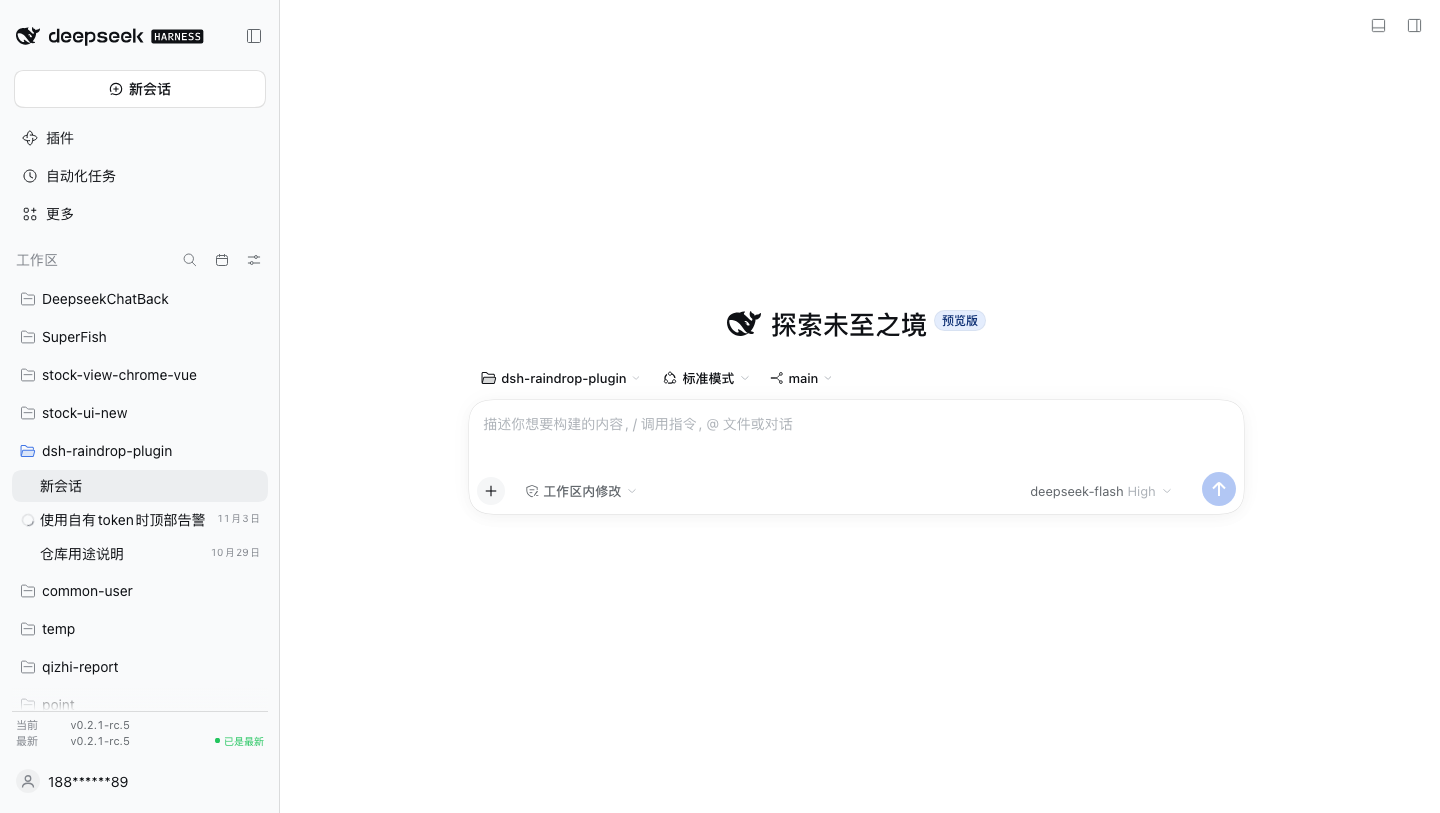
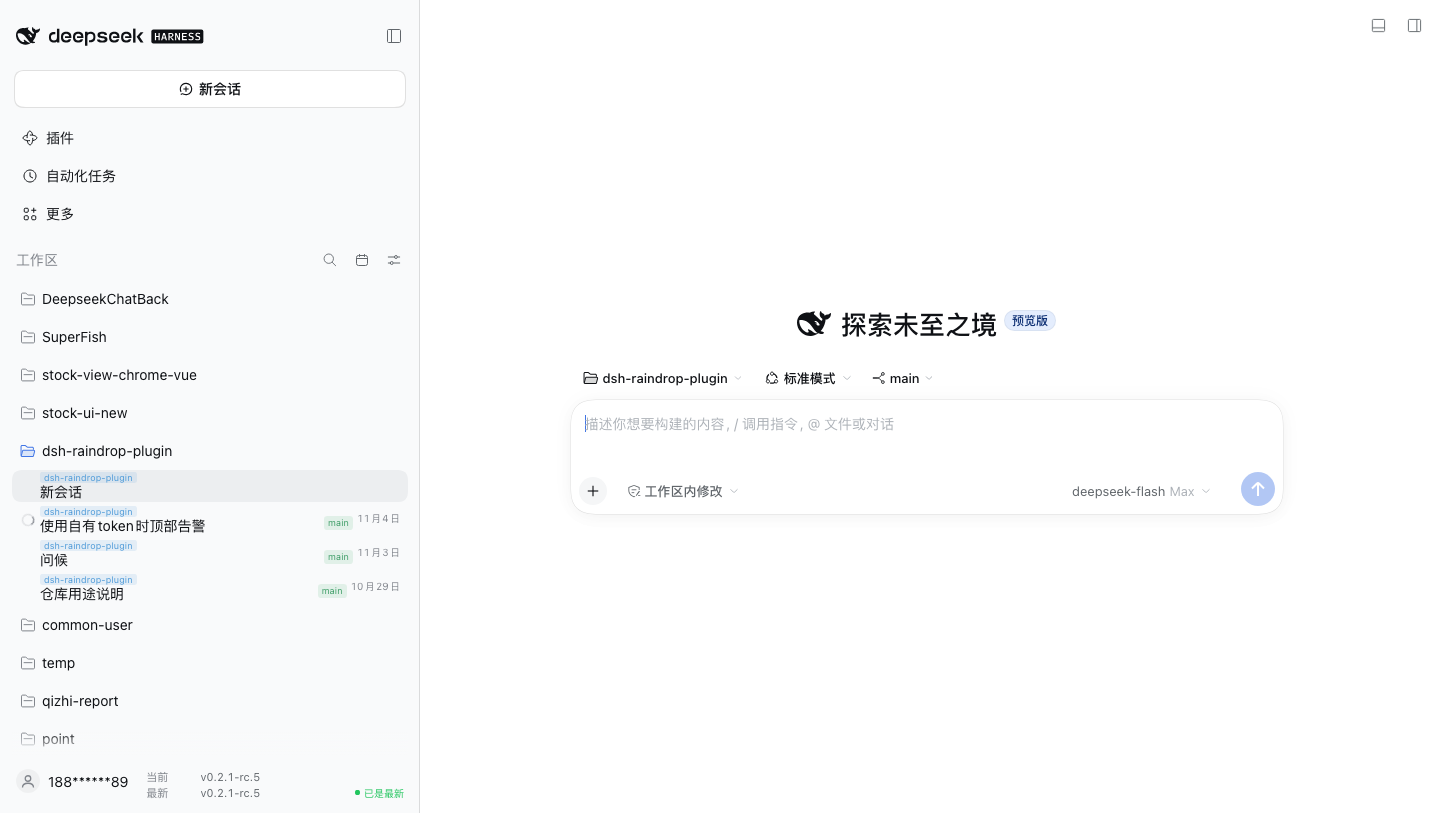
style: place the release block beside the account
- put the version block in the footer's bottom row, to the right of the account
- stack it below the account on a narrow sidebar so values are not clipped
- bump the package to 0.8.2

diff --git a/lib/client.js b/lib/client.js
@@ -267,6 +267,42 @@ button[${WS_ACTIVE_ATTRIBUTE}] { background: var(--dsw-alias-interactive-bg-hove
 .dsh-ws-search::placeholder { color: var(--dsw-alias-label-tertiary, #81858c); }
 .dsh-ws-search[data-dsh-ws-nomatch] { border-bottom-color: var(--dsw-alias-state-warning-primary, #d97757); }
 
+/* The footer's bottom row: the account stays on the left, the release block
+   sits on the right at the same level. The block remains a direct child of the
+   footer so React keeps owning the account row; grid placement moves it without
+   moving any React-owned node. On a narrow sidebar it stacks below the account
+   and becomes the very bottom row. */
+[class*="_sidebarCol"] { container-type: inline-size; }
+[class*="_footArea"]:has(> [${VERSION_ATTRIBUTE}]) {
+	display: grid;
+	grid-template-columns: auto minmax(0, 1fr);
+	align-items: end;
+	column-gap: 10px;
+}
+[class*="_footArea"]:has(> [${VERSION_ATTRIBUTE}]) > [class*="_footerActions"] { grid-column: 1 / -1; }
+[class*="_footArea"]:has(> [${VERSION_ATTRIBUTE}]) > [${VERSION_ATTRIBUTE}] {
+	grid-column: 2;
+	grid-row: 2;
+	width: 100%;
+	border-top: none;
+}
+[class*="_footArea"]:has(> [${VERSION_ATTRIBUTE}]) > [class*="_settingsArea"] {
+	grid-column: 1;
+	grid-row: 2;
+}
+@container (max-width: 340px) {
+	[class*="_footArea"]:has(> [${VERSION_ATTRIBUTE}]) { grid-template-columns: minmax(0, 1fr); }
+	[class*="_footArea"]:has(> [${VERSION_ATTRIBUTE}]) > [${VERSION_ATTRIBUTE}] {
+		grid-column: 1;
+		grid-row: 3;
+		border-top: .5px solid var(--dsw-alias-border-l3, rgba(0, 0, 0, .07));
+	}
+	[class*="_footArea"]:has(> [${VERSION_ATTRIBUTE}]) > [class*="_settingsArea"] {
+		grid-column: 1;
+		grid-row: 2;
+	}
+}
+
 /* Sidebar footer release block: running version and npm's latest. */
 [${VERSION_ATTRIBUTE}] {
 	display: flex;
@@ -276,7 +312,7 @@ button[${WS_ACTIVE_ATTRIBUTE}] { background: var(--dsw-alias-interactive-bg-hove
 	width: 100%;
 	flex: none;
 	padding: 5px 4px 7px;
-	border-top: .5px solid var(--dsw-alias-border-l3, rgba(0, 0, 0, .07));
+	border-top: none;
 	color: var(--dsw-alias-label-tertiary, #81858c);
 	font-size: 11px;
 	line-height: 15px;
@@ -790,7 +826,8 @@ button[${WS_ACTIVE_ATTRIBUTE}] { background: var(--dsw-alias-interactive-bg-hove
 			}
 
 			/**
-			* Ensure the footer block exists above the account row.
+			* Ensure the footer release block exists. It stays a direct child of the
+			* footer; the stylesheet places it beside the account at the bottom.
 			* @returns the block, or null before the sidebar footer mounts.
 			*/
 			function ensureVersionRow() {

diff --git a/README.md b/README.md
@@ -16,7 +16,7 @@ Sessions outside the current year include the year (`2025年10月29日`); the En
 - **Inline dates**: every session row ends with a calendar day (last activity by default, switchable to first conversation).
 - **Workspace picker search**: opening the new-session workspace menu adds a search field at the top. The picker shows at most five workspaces at a time; the rest scroll, with the search field and the add-workspace footer staying visible. Typing filters the list to matching workspaces. `↑`/`↓` move the highlight, `Home`/`End` jump to the first/last match, and `Enter` switches to the highlighted row (or, when nothing is highlighted, the exact label, then the first match). With no match the field's underline turns orange and `Enter` does nothing.
 - **Own-quota alert**: while the model selected for the conversation on screen is served by your own DeepSeek account (`deepseek-account` login route or `deepseek-official` API-key route), a fixed amber strip at the top of the window reads **“正在使用自己的额度！”** / **“You are using your own quota!”**. It disappears as soon as another provider is selected and never blocks the UI. Third-party gateways such as `qz` keep their own billing and do not trigger it.
-- **DSH versions**: the sidebar footer above the account row shows the **running** release (`当前` / `Current`) and npm's **latest** `@deepseek-ai/dsh` release (`最新` / `Latest`), with a green `已是最新` / `Up to date` or amber `可更新` / `Update` badge. It refreshes every 15 minutes and hides when the sidebar is collapsed.
+- **DSH versions**: the sidebar footer's bottom row shows the **running** release (`当前` / `Current`) and npm's **latest** `@deepseek-ai/dsh` release (`最新` / `Latest`) beside the account, with a green `已是最新` / `Up to date` or amber `可更新` / `Update` badge. It refreshes every 15 minutes and hides when the sidebar is collapsed.
 - **Project label**: each Session row shows its workspace/project name above the title as a small light-blue label (light-blue text on a soft blue fill), so a flat session list reads `dsh-raindrop-plugin` / `DeepseekChatBack` / `SuperFish` at a glance. The full directory path is the hover title. The label sits on its own compact line, so it does not steal horizontal room from the Session title.
 - **Session git version**: each Session records the git branch of its working directory when it is created, and its row shows a small light-green branch badge (the mismatch warning stays amber). Opening the Session again switches the directory back to that branch when the tree is clean; with uncommitted changes it only warns and leaves the working tree alone.
 - **Date view panel**: the calendar button in the sidebar header, left of the native view-options sliders.
@@ -46,7 +46,7 @@ const OWN_QUOTA_PROVIDERS = new Set(["deepseek-account", "deepseek-official"]);
 
 ![DSH versions](docs/dsh-versions.png)
 
-The sidebar footer above the account row shows both releases:
+The sidebar footer's bottom row shows both releases beside the account (on a narrow sidebar the block stacks below the account):
 
 - **Current** comes from the open page's boot manifest (`window.__DSH_BOOT__.release`), so it names exactly the build the tab is running, including its commit in the hover title.
 - **Latest** comes from npm's `latest` dist-tag. The Host half serves it at `GET /dsh-version/latest` with a 10-minute cache and reuses a stale successful read when npm is temporarily unreachable; if that route is absent, the browser falls back to the public npm manifest.
@@ -150,7 +150,7 @@ The plugin can also be switched off entirely from the GUI's plugin settings, lik
 **DSH versions**
 
 11. The current release comes from `window.__DSH_BOOT__.release` (version plus optional commit) — the same identity the module system uses, so it follows the build actually running in the tab rather than a package path.
-12. The latest release comes from the Host route above, with the public npm manifest as a browser fallback. The footer block is inserted above `sidebar.settings` and re-ensured when the footer re-renders; the stylesheet hides it under the sidebar's collapsed class, and the plugin refreshes the value every 15 minutes.
+12. The latest release comes from the Host route above, with the public npm manifest as a browser fallback. The footer block is inserted before `sidebar.settings` in the footer DOM; the stylesheet places it in the bottom grid to the right of the account (below it on a narrow sidebar). It is re-ensured when the footer re-renders, hidden under the sidebar's collapsed class, and refreshed every 15 minutes.
 
 **Session git version**
 

diff --git a/README.zh.md b/README.zh.md
@@ -16,7 +16,7 @@
 - **行内日期**：每个会话行末尾显示日历日（默认“最后活动”，可切换为“首次对话”）。
 - **工作区搜索**：打开“新会话”的工作区菜单后，顶部会出现搜索框。工作区菜单最多显示 5 行，其余滚动，搜索框和“添加工作区”固定在两端；输入时列表只保留匹配的工作区；`↑`/`↓` 移动高亮，`Home`/`End` 跳到第一个/最后一个匹配项，`Enter` 切到当前高亮项（没有高亮时优先名称完全匹配，其次第一个匹配项）。没有匹配时输入框下划线变橙色，`Enter` 不动作。
 - **自有额度告警**：当前会话选中的模型由自己的 DeepSeek 账号提供时（`deepseek-account` 账号登录路由或 `deepseek-official` 官方 API Key 路由），窗口顶部会固定显示一条琥珀色告警：**“正在使用自己的额度！”**（英文界面为 **“You are using your own quota!”**）。切到其他供应商后立即消失，不遮挡、不拦截操作。`qz` 等第三方网关有自己的计费，不会触发。
-- **DSH 版本**：侧栏底部账号行上方显示**当前**运行的版本和 npm 上的**最新** `@deepseek-ai/dsh` 版本，并用绿色 `已是最新` 或橙色 `可更新` 标记差异；每 15 分钟刷新一次，侧栏折叠时隐藏。
+- **DSH 版本**：侧栏底部与账号同一行的右侧显示**当前**运行的版本和 npm 上的**最新** `@deepseek-ai/dsh` 版本，并用绿色 `已是最新` 或橙色 `可更新` 标记差异；每 15 分钟刷新一次，侧栏折叠时隐藏。
 - **项目标签**：每个会话行在标题上方显示所属工作区/项目名，做成浅蓝色的小标签（浅蓝底、浅蓝字），平铺的会话列表也能一眼看出 `dsh-raindrop-plugin` / `DeepseekChatBack` / `SuperFish` 等来源；悬停标题可看完整目录。项目名单独占一行，不占标题的横向空间。
 - **会话 git 版本**：会话创建时记录其工作目录所在的 git 分支，会话行时钟旁显示浅绿色分支徽标（不一致时保持琥珀色警告）；重新打开会话时若当前分支与记录不一致，工作区干净就自动 `git switch` 回该分支，有未提交改动则只提示、不动工作区。
 - **日期视图面板**：侧栏头部的日历按钮（在原生“视图选项”滑杆按钮左侧）。
@@ -46,7 +46,7 @@ const OWN_QUOTA_PROVIDERS = new Set(["deepseek-account", "deepseek-official"]);
 
 ![DSH 版本](docs/dsh-versions.png)
 
-侧栏底部账号行上方同时显示两个版本：
+侧栏底部与账号同一行的右侧同时显示两个版本；窄侧栏时版本块会落到账号下方：
 
 - **当前**取自当前页面的 boot manifest（`window.__DSH_BOOT__.release`），所以它精确对应当前标签页实际运行的构建；悬停可以看到 commit。
 - **最新**取自 npm 的 `latest` dist-tag。Host 半在 `GET /dsh-version/latest` 提供并缓存 10 分钟；npm 暂时不可达时优先复用上一次成功结果，路由缺失时浏览器会直接回退到公开的 npm manifest。
@@ -151,7 +151,7 @@ const SHOW_YEAR = "auto";   // auto | always | never
 **DSH 版本**
 
 11. 当前版本来自 `window.__DSH_BOOT__.release`（版本 + 可选 commit），和模块系统使用的构建身份一致，所以它跟随标签页实际运行的构建，而不是某个包路径。
-12. 最新版本来自上面的 Host 路由，Host 路由缺失时回退到公开 npm manifest。版本块插在 `sidebar.settings` 上方，并在侧栏 footer 重新渲染时重新挂载；样式在侧栏折叠类下隐藏，插件每 15 分钟刷新一次。
+12. 最新版本来自上面的 Host 路由，Host 路由缺失时回退到公开 npm manifest。版本块插在 footer 中 `sidebar.settings` 之前；样式把它放在底部网格的右侧、与账号同级（窄侧栏时落到账号下方）。侧栏 footer 重新渲染时重新挂载，折叠时隐藏，插件每 15 分钟刷新一次。
 
 **会话 git 版本**
 
